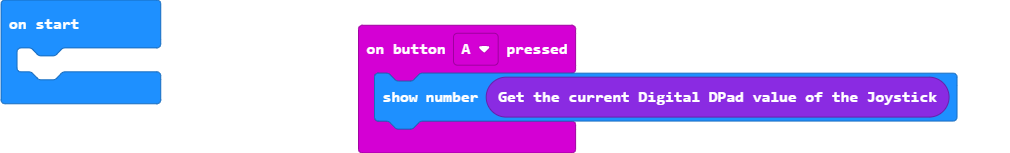
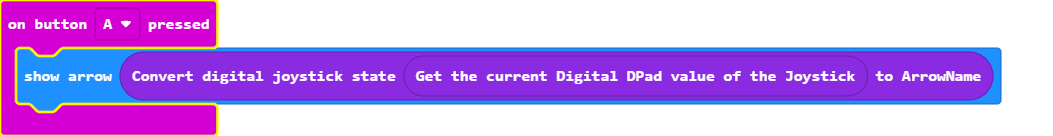
Working except for reporting north arrow

diff --git a/custom.ts b/custom.ts
@@ -198,7 +198,7 @@ namespace pxt_Valley_EFJSB_Helpers
         let p0 = pins.analogReadPin(AnalogPin.P0);
         let p1 = pins.analogReadPin(AnalogPin.P1);
 
-        let digitalThreshhold = 10;
+        let digitalThreshhold = 150;
 
         let left, right, up, down = false;
 
@@ -271,9 +271,10 @@ namespace pxt_Valley_EFJSB_Helpers
     /**
     * Convert the numeric points of digital joystick position to arrows
     * @joystickState (0-8 clockwise from top) to a standard Micro:Bit ArrowName.
+    * @joystickState
     */
-    //% blockId=joystickPositionAsArrow block="Convert %joystickState to ArrowName"
-    export function joystickPositionAsArrow(joystickState: joysticDigitalStates): ArrowNames
+    //% blockId=joystickPositionAsArrow block="Convert digital joystick state %joystickState to ArrowName"
+    export function joystickPositionAsArrow(joystickState: number): ArrowNames
     {
         switch (joystickState)
         {

diff --git a/main.ts b/main.ts
@@ -1,3 +1,3 @@
 input.onButtonPressed(Button.A, function () {
-    basic.showNumber(pxt_Valley_EFJSB_Helpers.getDigitalJoystickPosition())
+    basic.showArrow(pxt_Valley_EFJSB_Helpers.joystickPositionAsArrow(pxt_Valley_EFJSB_Helpers.getDigitalJoystickPosition()))
 })
